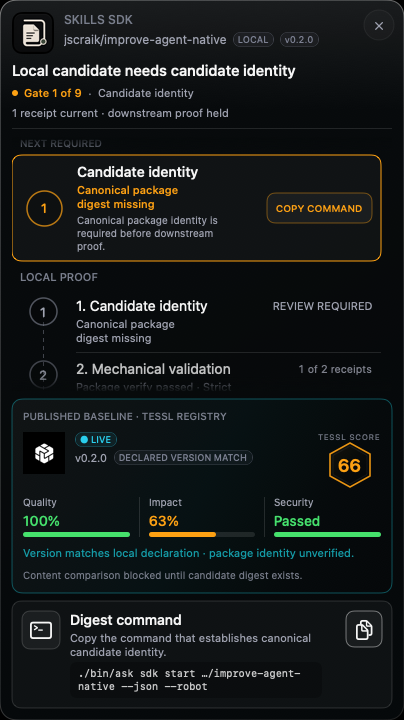
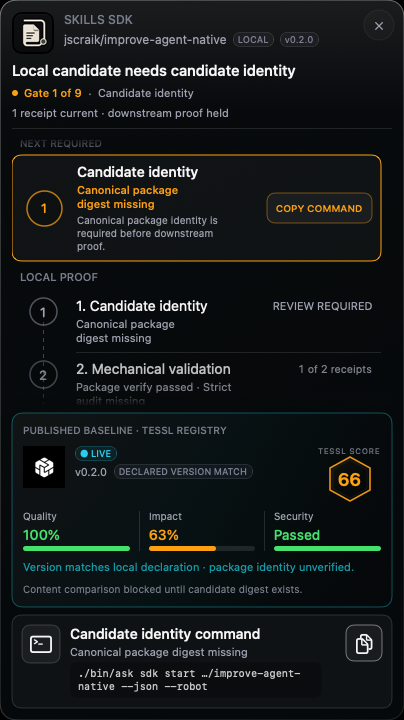
fix: harden PR review and evidence UI
Apply bounded CLI review fixes for accessibility, registry wording, workflow permissions, and historical proof labeling.\n\nBehavior proof: focused and full Swift suites pass; packaged debug app builds and codesigns.\n\nCo-authored-by: Codex <noreply@openai.com>

Changed region(s): [[0.0297, 0.5194, 0.9802, 0.9167]]

diff --git a/Sources/SkillsBar/Views/ReleaseEvidenceView.swift b/Sources/SkillsBar/Views/ReleaseEvidenceView.swift
@@ -33,6 +33,7 @@ struct ReleaseEvidenceView: View {
 private struct ReleaseHeader: View {
     let dashboard: SkillDashboard
     let isRefreshing: Bool
+    @Environment(\.accessibilityReduceMotion) private var reduceMotion
 
     private var candidate: PipelineCandidate { dashboard.pipeline }
     private var active: PipelineStageReceipt? { candidate.activeReceipt }
@@ -50,8 +51,14 @@ private struct ReleaseHeader: View {
                         .releaseFont(12, weight: .medium, relativeTo: .caption)
                         .foregroundStyle(.secondaryText)
                     if isRefreshing {
-                        ProgressView()
-                            .controlSize(.mini)
+                        if reduceMotion {
+                            Image(systemName: "arrow.clockwise")
+                                .font(.system(size: 10, weight: .medium))
+                        } else {
+                            ProgressView()
+                                .controlSize(.mini)
+                        }
+                        Color.clear
                             .accessibilityLabel("Refreshing evidence")
                     }
                 }
@@ -391,6 +398,9 @@ private struct TesslEvidenceCard: View {
             || dashboard.tessl.dataOrigin == .fixture
             || (dashboard.tessl.dataOrigin == .unavailable && hasRegistrySnapshot)
     }
+    private var hasCurrentCandidateDigest: Bool {
+        dashboard.pipeline.orderedReceipts.first(where: { $0.stage == .candidateBaseline })?.evidenceStatus == .passed
+    }
     private var statusLabel: String {
         if isLive { return "● LIVE" }
         if isHistorical { return "☁ CLI UNAVAILABLE" }
@@ -408,7 +418,7 @@ private struct TesslEvidenceCard: View {
 
     var body: some View {
         VStack(alignment: .leading, spacing: 9) {
-            Text("PUBLISHED BASELINE · TESSL REGISTRY")
+            Text(hasRegistrySnapshot ? "PUBLISHED BASELINE · TESSL REGISTRY" : "TESSL REGISTRY")
                 .releaseFont(9.5, weight: .medium, relativeTo: .caption2)
                 .foregroundStyle(.secondaryText)
             HStack(alignment: .top, spacing: 10) {
@@ -480,9 +490,11 @@ private struct TesslEvidenceCard: View {
                 .releaseFont(10.5, weight: .regular, relativeTo: .caption)
                 .foregroundStyle(Color.teal.opacity(isLive ? 0.84 : 0.58))
                 .fixedSize(horizontal: false, vertical: true)
-            Text("Content comparison blocked until candidate digest exists.")
-                .releaseFont(10, weight: .regular, relativeTo: .caption2)
-                .foregroundStyle(.secondaryText)
+            if !hasCurrentCandidateDigest {
+                Text("Content comparison blocked until candidate digest exists.")
+                    .releaseFont(10, weight: .regular, relativeTo: .caption2)
+                    .foregroundStyle(.secondaryText)
+            }
         }
         .padding(11)
         .background(
@@ -549,6 +561,15 @@ private struct CanonicalIdentityAction: View {
     @ObservedObject private var feedback = CopyFeedbackModel.shared
 
     private var command: String { receipt?.command ?? "" }
+    private var title: String {
+        receipt.map { "\($0.stage.title) command" } ?? "All gates current"
+    }
+    private var subtitle: String {
+        receipt?.nextAction ?? "No held downstream gates"
+    }
+    private var commandLabel: String {
+        receipt.map { "Copy the \($0.stage.title.lowercased()) command" } ?? "Copy pipeline command"
+    }
     private var commandPreview: String {
         let executableCommand: String
         if let separator = command.range(of: " && ") {
@@ -583,9 +604,9 @@ private struct CanonicalIdentityAction: View {
                 .accessibilityHidden(true)
 
             VStack(alignment: .leading, spacing: 3) {
-                Text(receipt == nil ? "All gates current" : "Digest command")
+                Text(title)
                     .releaseFont(14, weight: .medium, relativeTo: .subheadline)
-                Text(receipt == nil ? "No held downstream gates" : "Copy the command that establishes canonical candidate identity.")
+                Text(subtitle)
                     .releaseFont(10.5, weight: .regular, relativeTo: .caption)
                     .foregroundStyle(.bodyText)
                 if !command.isEmpty {
@@ -610,8 +631,8 @@ private struct CanonicalIdentityAction: View {
                 }
                 .buttonStyle(ReleasePressButtonStyle())
                 .foregroundStyle(feedback.copiedCommand == command ? Color.successAccent : Color.primaryText)
-                .help("Copy full digest command")
-                .accessibilityLabel("Copy full digest command")
+                .help(commandLabel)
+                .accessibilityLabel(commandLabel)
                 .accessibilityValue(command)
             }
         }

diff --git a/README.md b/README.md
@@ -8,7 +8,7 @@ The app is currently a local prototype with a release-capable packaging path. It
 
 - **Candidate identity** from the non-mutating `./bin/ask sdk package build <skill> --json --robot` receipt and its canonical `package_digest`.
 - **Mechanical validation** from both `./bin/ask skills package verify <skill> --json --robot` and `./bin/ask skills audit <skill> --level strict --json --robot`.
-- **Local security posture** from the candidate-bound `./bin/ask sdk security risk-modes <skill> --preview --json --robot` receipt.
+- **Local security posture preview** from the candidate-bound `./bin/ask sdk security risk-modes <skill> --preview --json --robot` receipt. This is advisory; gate 3 proof requires the full governed security receipt.
 - **Eval preparation** from scenario-quality, scorer-quality, and scorer-calibration preview receipts collected in the same refresh window.
 - **Eval local, Eval cloud, and Tessl staging proof** from the canonical `.harness/evidence/handoff/<skill>/gate-chain.json` and its governed release receipts.
 - **Runtime truth** from `.harness/evidence/runtime-proof/<skill>/<runtime>/runtime-card.json` only when the card proves the installed digest, doctor result, and observed behavior for the current package digest.
@@ -26,7 +26,7 @@ These lanes are intentionally independent. Every downstream receipt must use the
 
 SkillsBar is not App-Sandboxed: it reads the configured Skills SDK checkout and runs its read-only SDK checks locally. For Tessl, it prefers `TESSL_BIN` when set, then the current user's `~/.local/bin/tessl`, then `PATH`. Keep `SKILLSBAR_REVIEW_FIXTURE` unset for normal use; that variable is reserved for deterministic tests and mockup work.
 
-SkillsBar never automatically runs provider-backed `oss-local` or `oss-cloud` evals, Tessl staging/publication, runtime installation, or runtime-proof commands when the menu opens. Those operations may cost money, require credentials, or mutate external/runtime state, so the app consumes their durable governed receipts instead. A live Tessl search remains a registry observation until a candidate-bound publication/score receipt exists, the package and registry versions match, and registry visibility is known.
+SkillsBar never automatically runs provider-backed `oss-local` or `oss-cloud` evals, Tessl staging/publication, runtime installation, or runtime-proof commands when the menu opens. Those operations may cost money, require credentials, or mutate external/runtime state, so the app consumes their durable governed receipts instead. A live Tessl CLI search is a registry observation even when the result has a version mismatch or no version. Candidate-bound publication/score receipts, package/registry version equality, and governed registry visibility remain requirements for promotion and identity verification.
 
 ## Run
 

diff --git a/.harness/reports/2026-07-18-pr-green-sweep.md b/.harness/reports/2026-07-18-pr-green-sweep.md
@@ -42,7 +42,7 @@ head_before: 587cad7640c1be48ee6d2b7c86fde1cf67b66a4b
 
 Command: HOME=/private/tmp/skillsbar-pr2-build-home XDG_CACHE_HOME=/private/tmp/skillsbar-pr2-build-xdg CLANG_MODULE_CACHE_PATH=/private/tmp/skillsbar-pr2-build-clang DEVELOPER_DIR=/Applications/Xcode-beta.app/Contents/Developer timeout 300 swift build --build-system native --disable-sandbox --build-path /private/tmp/skillsbar-pr2-build -> pass (Swift build completed; the previous CodeQL compiler error no longer reproduces)
 
-Command: HOME=/private/tmp/skillsbar-pr2-focused-home XDG_CACHE_HOME=/private/tmp/skillsbar-pr2-focused-xdg CLANG_MODULE_CACHE_PATH=/private/tmp/skillsbar-pr2-focused-clang DEVELOPER_DIR=/Applications/Xcode-beta.app/Contents/Developer timeout 600 swift test --build-system native --disable-sandbox --build-path /private/tmp/skillsbar-pr2-focused --filter ReviewPopoverTests|PipelineEvidenceLoaderTests -> pass (65 tests, 1 opt-in integration test skipped, 0 failures)
+Command: HOME=/private/tmp/skillsbar-pr2-focused-home XDG_CACHE_HOME=/private/tmp/skillsbar-pr2-focused-xdg CLANG_MODULE_CACHE_PATH=/private/tmp/skillsbar-pr2-focused-clang DEVELOPER_DIR=/Applications/Xcode-beta.app/Contents/Developer timeout 600 swift test --build-system native --disable-sandbox --build-path /private/tmp/skillsbar-pr2-focused --filter 'ReviewPopoverTests|PipelineEvidenceLoaderTests' -> pass (65 tests, 1 opt-in integration test skipped, 0 failures)
 
 Command: HOME=/private/tmp/skillsbar-pr2-test-home XDG_CACHE_HOME=/private/tmp/skillsbar-pr2-test-xdg CLANG_MODULE_CACHE_PATH=/private/tmp/skillsbar-pr2-test-clang DEVELOPER_DIR=/Applications/Xcode-beta.app/Contents/Developer timeout 600 swift test --build-system native --disable-sandbox --build-path /private/tmp/skillsbar-pr2-test -> pass (67 tests, 1 opt-in integration test skipped, 0 failures)
 

diff --git a/.codex/skills/improve-animations/AUDIT.md b/.codex/skills/improve-animations/AUDIT.md
@@ -70,7 +70,7 @@ CSS **transitions** retarget from the current state mid-animation; **keyframes**
 - Spring configs, Apple-style (recommended): `{ type: "spring", duration: 0.5, bounce: 0.2 }`. Keep bounce subtle (0.1–0.3); reserve visible bounce for drag-to-dismiss and playful moments.
 - **Asymmetric timing**: deliberate phases (press, hold, destructive confirm) animate slower; the system's response snaps. Symmetric timing on press-and-release is a finding.
 
-Hunt for: `@keyframes` on toasts/toggles/rapidly-triggered UI, gesture handlers that tween with fixed-duration keyframes, drags without velocity-based dismissal (dismiss on `Math.abs(distance)/elapsedMs > ~0.11`, not distance thresholds alone), hard stops at drag boundaries instead of rising friction.
+Hunt for: `@keyframes` on toasts/toggles/rapidly-triggered UI, gesture handlers that tween with fixed-duration keyframes, drags without velocity-based dismissal (dismiss when `Math.abs(distance) / elapsedMs > 0.11 CSS px/ms`, not distance thresholds alone), hard stops at drag boundaries instead of rising friction. Treat 0.11 CSS px/ms as a heuristic when the platform cannot expose those units.
 
 ## 5. Performance
 

diff --git a/.harness/reports/2026-07-14-skillsbar-nine-gate-ui-validation.md b/.harness/reports/2026-07-14-skillsbar-nine-gate-ui-validation.md
@@ -25,7 +25,7 @@ status: local_validation_pass_live_ui_blocked
   composition is not a reliable off-screen proof surface. The normal live app
   retains its translucent material treatment.
 
-## Validation evidence
+## Historical validation evidence (superseded)
 
 Command: `HOME=/private/tmp/skillsbar-test-home XDG_CACHE_HOME=/private/tmp/skillsbar-test-xdg CLANG_MODULE_CACHE_PATH=/private/tmp/skillsbar-test-clang-cache DEVELOPER_DIR=/Applications/Xcode-beta.app/Contents/Developer swift test --build-system native --disable-sandbox --build-path /private/tmp/skillsbar-test-build --filter ReviewPopoverTests` -> pass (47 focused tests; includes 1,000 nine-gate ordering iterations, complete-content overflow proof, cache round-trip, live/no-CLI semantic checks, and both snapshot renders)
 

diff --git a/.codex/skills/improve-animations/SKILL.md b/.codex/skills/improve-animations/SKILL.md
@@ -86,6 +86,9 @@ If the marker contains any other non-blank `workflow:` value, treat `plans/`
 as owned by another workflow and use `animation-plans/` instead. Use the one
 resolved directory for numbering, plan files, and its README; do not resolve a
 different directory for any later operation.
+If `plans/` already exists without a `.workflow-owner` marker, treat ownership
+as ambiguous and stop before writing; add the exact `workflow: improve-animations`
+marker or choose `animation-plans/` explicitly before continuing.
 
 One plan per selected finding, using [PLAN-TEMPLATE.md](PLAN-TEMPLATE.md), written into the resolved plan directory as `NNN-short-slug.md` (monotonic numbering; respect existing plans). Stamp each plan with the current commit (`git rev-parse --short HEAD`).
 

diff --git a/.harness/reports/worker-handoffs/2026-07-10-skillsbar-pipeline-posture-worker.md b/.harness/reports/worker-handoffs/2026-07-10-skillsbar-pipeline-posture-worker.md
@@ -1,8 +1,8 @@
 # SkillsBar pipeline-posture worker handoff (historical)
 
-> Superseded by the nine-gate PR #2 implementation and its current follow-up
-> validation. Retained as historical provenance; do not use this receipt as
-> current candidate proof.
+> Superseded by `.harness/reports/2026-07-14-skillsbar-nine-gate-ui-validation.md#pr-2-follow-up-validation`.
+> Retained as historical provenance; do not use this receipt as current
+> candidate proof.
 
 ## Changed files
 
